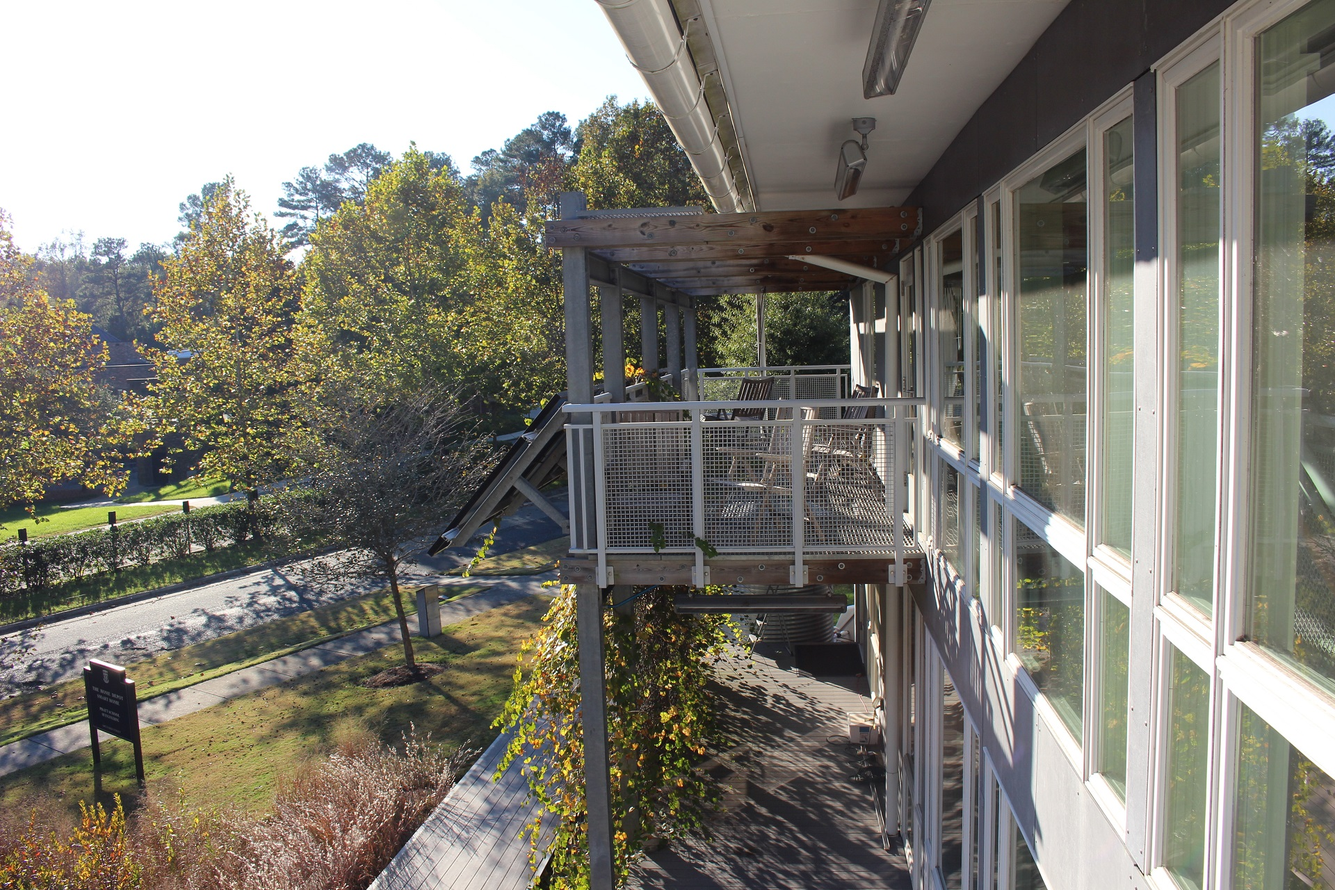
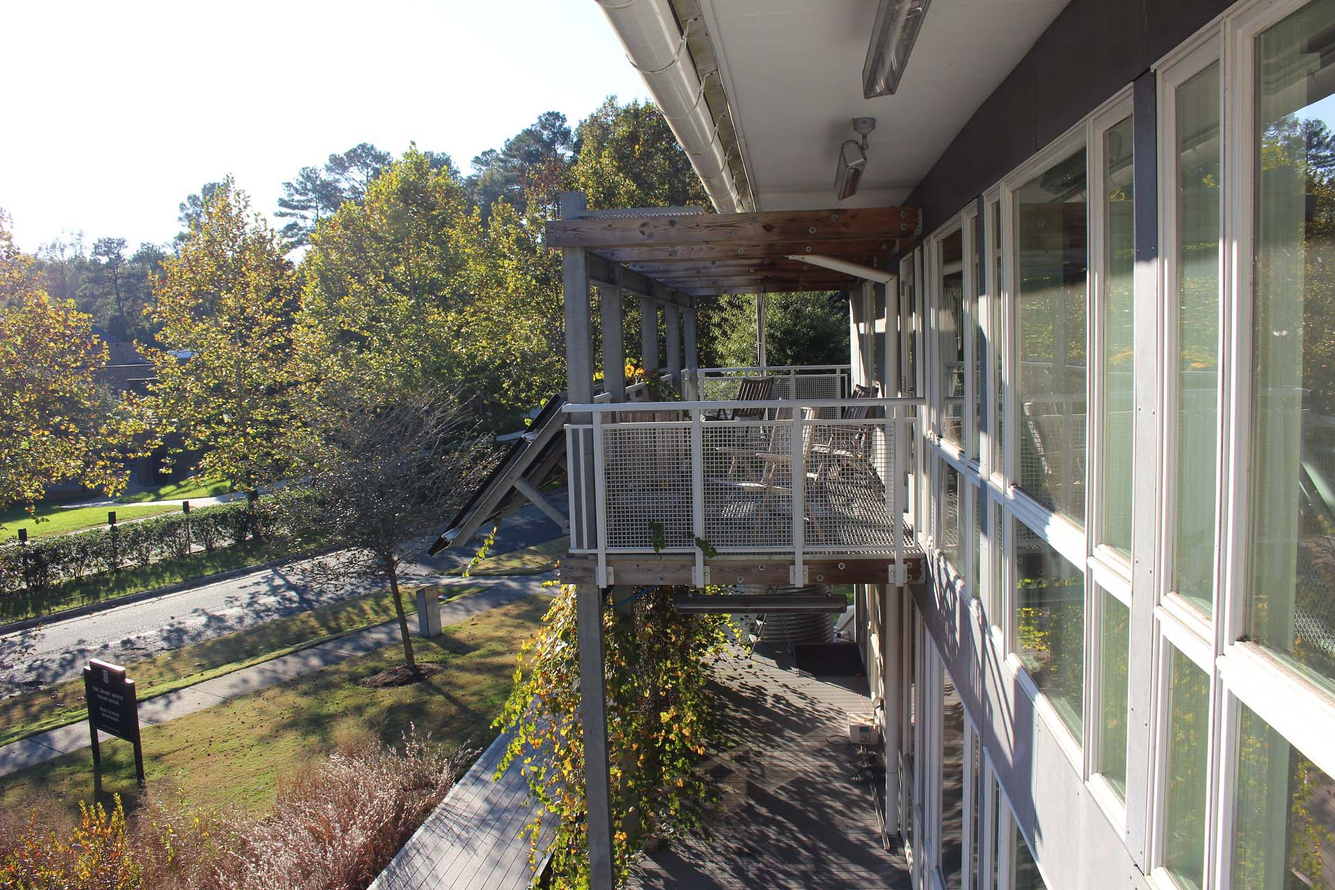
optimized some images, updated proj descriptions, ui tweaks

diff --git a/js/data.js b/js/data.js
@@ -17,7 +17,7 @@ var execs = [{
     picture: 'emilia.JPG'
 }, {
     name: 'Shomik Verma',
-    title: 'Publicity Director',
+    title: 'Communications Director',
     picture: 'shomik.JPG'
 }];
 
@@ -110,6 +110,11 @@ var features = [[{
 /* Data for projects */
 
 var projects = [{
+    name: 'LED Tube Lights',
+    lead: ['Anuj Thakkar'],
+    picture: 'led.JPG',
+    description: 'Check out the <a target="_blank" href="/led-interface">Smart Home LED tube lights calculator<div class="new">New!</div></a>.'
+},{
     name: 'Electric Bike',
     lead: ['Harvey Shi'],
     picture: 'bikes.JPG',
@@ -128,10 +133,5 @@ var projects = [{
     name: 'Thermoelectric Solar Cooker',
     lead: ['Derek Hill'],
     picture: 'cooker.JPG',
-    description: ''
-}, {
-    name: 'LED Tube Lights',
-    lead: ['Anuj Thakkar'],
-    picture: 'led.JPG',
-    description: 'Check out the <a target="_blank" href="/led-interface">Smart Home LED tube lights calculator</a>.'
+    description: 'This project is based around thermoelectric generators, which are basically devices with no moving parts that can generate electricity from temperature differences. The goal for the project is to build a highly efficient solar cooker that integrates a thermoelectric generator in order to produce electrical energy from the temperature difference between the inside and outside of the solar cooker. This project could give people in areas with limited access to an energy grid an efficient means of cooking a meal while also generating enough electricity to power another device.'
 }];

diff --git a/css/main.css b/css/main.css
@@ -558,6 +558,7 @@ nav ul li:hover:after {
     transition: all 0.5s cubic-bezier(.25, .8, .25, 1);
     background-color: rgba(255, 255, 255, 0.9);
     color: #222;
+    pointer-events: none;
 }
 
 .opened-tile {
@@ -588,6 +589,25 @@ nav ul li:hover:after {
 
 .prj-long-description a {
     color: rgb(29, 124, 242);
+}
+
+.new {
+    background-color: orange;
+    text-shadow: 0 1px 1px white;
+    box-shadow: 0 -1px 1px rgb(255, 153, 102), 0 1px 1px black;
+    color: black;
+    border-radius: 3px;
+    padding: 3px 6px;
+    font-weight: bold;
+    margin-left: 5px;
+    margin-right: 2px;
+    text-decoration: none;
+    -ms-transform: rotate(-7deg);
+    /* IE 9 */
+    -webkit-transform: rotate(-7deg);
+    /* Chrome, Safari, Opera */
+    transform: rotate(-7deg);
+    display: inline-block;
 }
 
 

diff --git a/index.html b/index.html
@@ -129,7 +129,7 @@
     <div id="contact" class="container">
         <h1>Contact</h1>
         <div>For general inquiries, contact <a class="mail" href="mailto:dukeuniversitysmarthome@gmail.com">dukeuniversitysmarthome@gmail.com</a></div>
-        <a href="https://www.facebook.com/dukesmarthome/" target="_blank"><img class="soc-media-img" src="img/soc-media/fb.gif"></a>
+        <a href="https://www.facebook.com/dukesmarthome/" target="_blank"><img class="soc-media-img" src="img/soc-media/fb.jpg"></a>
         <a href="https://medium.com/duke-smart-home" target="_blank"><img class="soc-media-img" src="img/soc-media/medium.png"></a>
     </div>
 

diff --git a/js/main.js b/js/main.js
@@ -78,7 +78,6 @@ $(function () {
 
 
     // add project tiles
-    projects = shuffle(projects);
     for (var i = 0; i < projects.length; ++i) {
         $('#projects_holder').append(createProjectTile(projects[i]));
     }
@@ -108,7 +107,7 @@ $(function () {
     }
 
     // handle clicking on project tiles
-    $('.prj-tile').on('click', function () {
+    $('.prj-tile').on('click', function (e) {
         $(this).toggleClass('opened-tile');
         //$(this).siblings('.prj-tile').removeClass('opened-tile'); // needs better implementation
     });
